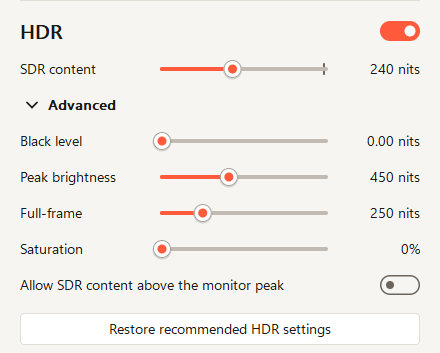
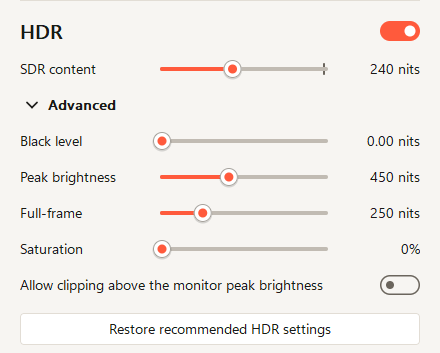
Official description; restore sets SDR content to 240 nits
Restore recommended HDR settings also turns off the renamed "Allow clipping
above the monitor peak brightness" toggle and sets SDR content to 240 nits
(or the monitor's peak, if lower). The owner's description replaces the
hero text and the README intro.

Changed region(s): [[0.1182, 0.779, 0.7386, 0.8414]]

diff --git a/site/index.html b/site/index.html
@@ -68,7 +68,7 @@
           <div class="hero-copy">
             <p class="kicker">Windows 11 · MIT</p>
             <h1 id="h-hero" class="display" data-reveal>Your monitor already knows its colors.</h1>
-            <p class="lead">Spectrum decodes the EDID your monitor reports, writes an ICC profile from it and keeps your SDR and HDR profiles applied.</p>
+            <p class="lead">Your monitor can already report to Windows which colors it can show. Spectrum turns that into a color profile and keeps it applied. If you use your monitor&rsquo;s color space emulation modes, Spectrum allows you to change your color profile with just one click, from your system tray. Easily enable, disable and manage HDR, too! All this, open source and for free, today.</p>
             <div class="actions">
               <a class="btn" href="%DOWNLOAD%">Download for Windows</a>
               <a class="btn btn-ghost" href="%REPO%">View on GitHub</a>

diff --git a/src/app.rs b/src/app.rs
@@ -87,7 +87,7 @@ pub struct UiMonitor {
     pub hdr_custom_active: bool,
     /// Windows "SDR content brightness" in nits; `None` when the driver does not report it.
     pub sdr_white_nits: Option<f64>,
-    /// "Allow SDR content above the monitor peak" is on (the slider may go past the EDID cap).
+    /// "Allow clipping above the monitor peak brightness" is on (the slider may go past the EDID cap).
     pub sdr_above_peak: bool,
     pub hdr_profile: HdrProfile,
     /// Luminance Windows reports for the output (read through DXGI); `None` with HDR off or when DXGI fails.
@@ -116,7 +116,7 @@ impl UiMonitor {
         monitors::sdr_white_cap(self.edid_hdr.as_ref().and_then(|h| h.max_nits))
     }
 
-    /// Top of the SDR content slider: the cap unless "Allow SDR content above the monitor peak" is on.
+    /// Top of the SDR content slider: the cap unless "Allow clipping above the monitor peak brightness" is on.
     pub fn sdr_max(&self) -> f64 {
         match self.sdr_cap() {
             Some(cap) if !self.sdr_above_peak => cap as f64,
@@ -733,15 +733,21 @@ fn set_sdr_white(idx_mon: usize, nits: f64) -> Result<String, String> {
     Ok(format!("Set SDR content to {nits} nits"))
 }
 
-/// The "Allow SDR content above the monitor peak" toggle. Turning it off snaps SDR content down to the cap
-/// through the same path as the slider.
-fn set_sdr_above_peak(idx_mon: usize, on: bool) -> Result<String, String> {
-    let m = monitor_at(idx_mon)?;
-    let edid_max = m
-        .edid
+/// SDR content brightness that "Restore recommended HDR settings" sets (capped at the monitor's peak).
+const RECOMMENDED_SDR_WHITE_NITS: f64 = 240.0;
+
+fn edid_peak_nits(m: &Monitor) -> Option<f64> {
+    m.edid
         .as_ref()
         .and_then(|e| e.hdr.as_ref())
-        .and_then(|h| h.max_nits);
+        .and_then(|h| h.max_nits)
+}
+
+/// The "Allow clipping above the monitor peak brightness" toggle (off by default). Turning it off snaps SDR
+/// content down to the cap through the same path as the slider.
+fn set_sdr_above_peak(idx_mon: usize, on: bool) -> Result<String, String> {
+    let m = monitor_at(idx_mon)?;
+    let edid_max = edid_peak_nits(&m);
     let cap = monitors::sdr_white_cap(edid_max)
         .ok_or_else(|| format!("Monitor {} reports no peak brightness to cap at.", m.num))?;
     save_cfg(&m, |e| e.sdr_above_peak = Some(on));
@@ -760,11 +766,15 @@ fn set_sdr_above_peak(idx_mon: usize, on: bool) -> Result<String, String> {
 }
 
 /// "Restore recommended HDR settings": writes the Spectrum HDR profile again with the EDID values and keeps it as
-/// the HDR default (same A/B alternation as `apply_hdr`). SDR content brightness is left alone.
+/// the HDR default (same A/B alternation as `apply_hdr`), turns "Allow clipping above the monitor peak
+/// brightness" off and sets SDR content to 240 nits (or the monitor's peak, if that is lower).
 fn reset_hdr(idx_mon: usize) -> Result<String, String> {
     let m = monitor_at(idx_mon)?;
     let params = edid_hdr_defaults(&m);
     apply_hdr(idx_mon, params)?;
+    save_cfg(&m, |e| e.sdr_above_peak = Some(false));
+    let cap = monitors::sdr_white_cap(edid_peak_nits(&m)).map_or(f64::INFINITY, |c| c as f64);
+    set_sdr_white(idx_mon, RECOMMENDED_SDR_WHITE_NITS.min(cap))?;
     log(&format!("HDR defaults restored on monitor {}", m.num));
     Ok(format!("Restored HDR defaults on monitor {}", m.num))
 }

diff --git a/src/ui/main_window.rs b/src/ui/main_window.rs
@@ -486,6 +486,7 @@ impl Main {
             }
             Id::Reset => {
                 self.dirty = false;
+                self.white_dirty = false;
                 self.pending
                     .push(Pending::Dispatch(UiAction::ResetHdr { mon: sel }));
             }
@@ -758,7 +759,7 @@ impl Main {
             let lcol = if enabled { th.text } else { dim_text };
             c.text(
                 lab,
-                "Allow SDR content above the monitor peak",
+                "Allow clipping above the monitor peak brightness",
                 self.fonts.body,
                 lcol,
                 TA_LEFT,

diff --git a/src/monitors.rs b/src/monitors.rs
@@ -515,7 +515,7 @@ pub fn round_sdr_white_nits(nits: f64) -> f64 {
     (SDR_WHITE_MIN_NITS + steps * SDR_WHITE_STEP_NITS).clamp(SDR_WHITE_MIN_NITS, SDR_WHITE_MAX_NITS)
 }
 
-/// The highest SDR content value the slider offers while "Allow SDR content above the monitor peak" is
+/// The highest SDR content value the slider offers while "Allow clipping above the monitor peak brightness" is
 /// off: the EDID HDR max luminance rounded down to the 4-nit grid, clamped to 80..=480. `None` without an
 /// EDID max, which means no cap.
 pub fn sdr_white_cap(edid_max: Option<f64>) -> Option<u32> {

diff --git a/src/debug.rs b/src/debug.rs
@@ -667,7 +667,7 @@ fn target(num: &str) -> Result<(u32, usize), String> {
     Ok((n, ui_index(n)?))
 }
 
-/// `--debug-sdr-cap <num> on|off`: the "Allow SDR content above the monitor peak" toggle, through the
+/// `--debug-sdr-cap <num> on|off`: the "Allow clipping above the monitor peak brightness" toggle, through the
 /// same action the window sends (turning it off snaps SDR content down to the cap).
 pub fn sdr_cap(num: &str, state: &str, out: Option<&Path>) -> i32 {
     let on = match parse_on_off(state) {

diff --git a/src/config.rs b/src/config.rs
@@ -15,7 +15,7 @@ pub struct MonitorCfg {
     pub sdr: Option<String>,
     pub hdr: Option<HdrParams>,
     pub hdr_file: Option<String>,
-    /// "Allow SDR content above the monitor peak"; `None` means off.
+    /// "Allow clipping above the monitor peak brightness"; `None` means off.
     pub sdr_above_peak: Option<bool>,
 }
 

diff --git a/site/copy.md b/site/copy.md
@@ -1,6 +1,6 @@
 # Spectrum website copy
 
-Total prose words: 101 (budget 380; counts Headline, Hero text, Body, Caption, Callout, noscript and the footer line; excludes kickers, button and label lines, numbers, axis ticks, alt text and the gamut descriptions, which are the app's own strings)
+Total prose words: 144 (budget 380; counts Headline, Hero text, Body, Caption, Callout, noscript and the footer line; excludes kickers, button and label lines, numbers, axis ticks, alt text and the gamut descriptions, which are the app's own strings)
 
 Line types: Headline, Hero text, Body, Caption, Callout and Noscript count as prose and carry a word count. Kicker, Button, Label, Alt, Aria and Description are UI text and are not counted. Placeholders in braces ({rx}, {area}) are filled by the builder from the measurement report and monitor.json. Coverage percentages are computed from monitor.json (checked by hand: 100, 98.4, 94.9 and 78.1).
 
@@ -29,7 +29,7 @@ UI labels quoted here match the app verbatim: "Read from monitor", "Compare gamu
 
 - Kicker: "Windows 11 · MIT"
 - Headline: "Your monitor already knows its colors." (6 words)
-- Hero text: "Spectrum decodes the EDID your monitor reports, writes an ICC profile from it and keeps your SDR and HDR profiles applied." (21 words)
+- Hero text: "Your monitor can already report to Windows which colors it can show. Spectrum turns that into a color profile and keeps it applied. If you use your monitor's color space emulation modes, Spectrum allows you to change your color profile with just one click, from your system tray. Easily enable, disable and manage HDR, too! All this, open source and for free, today." (64 words; the owner's official description, also at the top of the README, used verbatim)
 - Button: "Download for Windows"
 - Button (ghost): "View on GitHub"
 - Canvas labels (mono): "sRGB" · "Display P3" · "Adobe RGB (1998)" · "QD-OLED 27" · "{area}% of CIE 1931 xy" (area computed live)

diff --git a/README.md b/README.md
@@ -6,7 +6,7 @@
 </p>
 
 <p align="center">
-  Spectrum is a Windows tray utility that builds ICC profiles from your monitor's EDID and keeps them applied, for SDR and HDR.
+  Your monitor can already report to Windows which colors it can show. Spectrum turns that into a color profile and keeps it applied. If you use your monitor's color space emulation modes, Spectrum allows you to change your color profile with just one click, from your system tray. Easily enable, disable and manage HDR, too! All this, open source and for free, today.
 </p>
 
 <p align="center">
